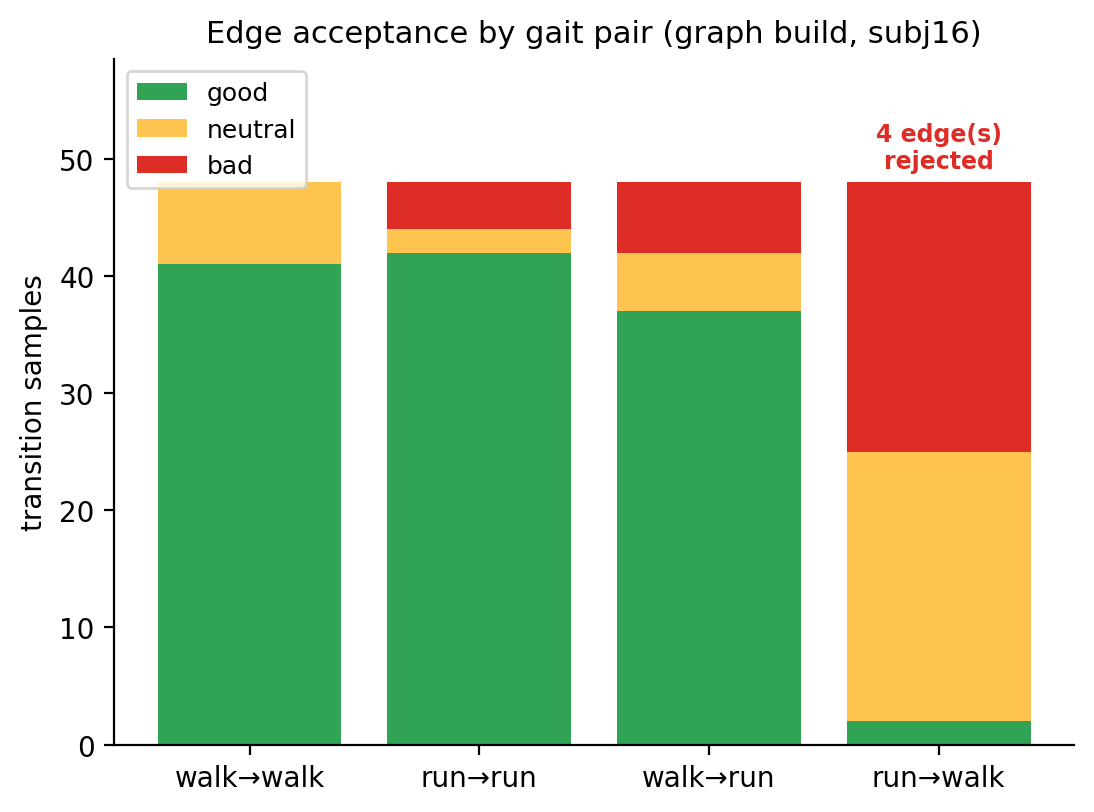
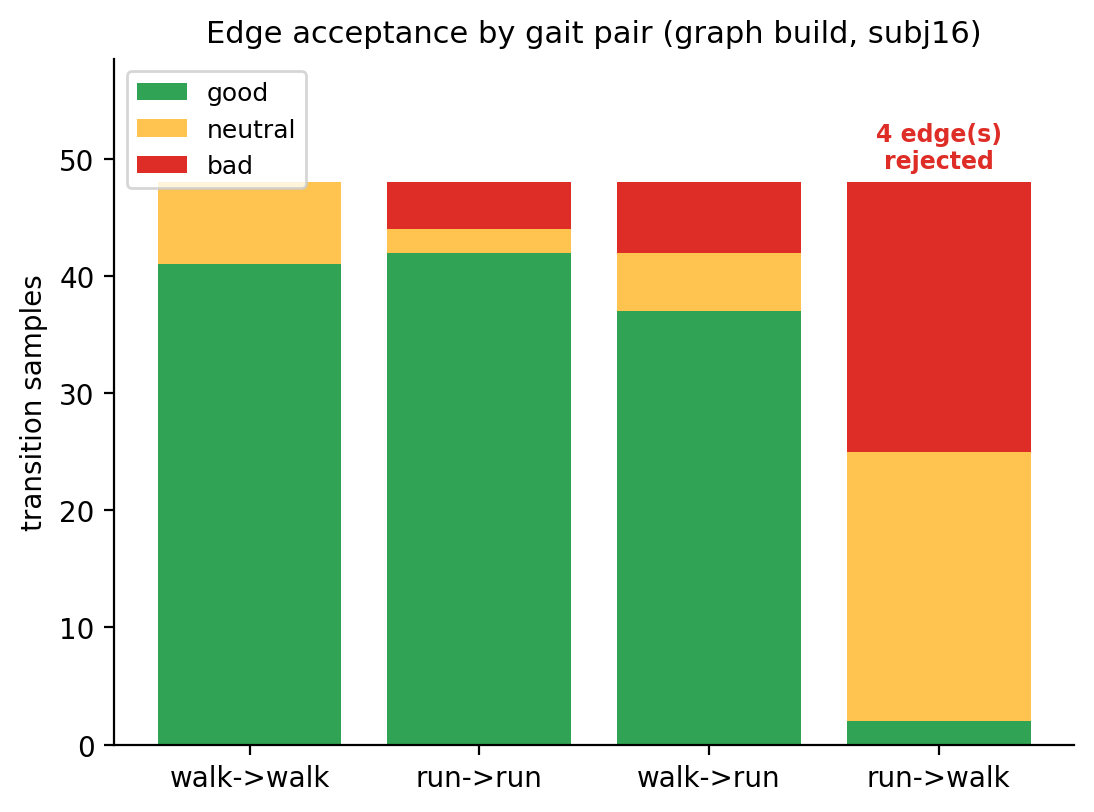
docs: make demo figures reproducible from tracked specs
The figure regen scripts read gitignored experiments/cmu CSV dumps that were
deleted with experiments/. Rewrite all three to regenerate their inputs by
running pmg_cli on the tracked specs/*.pmg_spec + BVH/*.bvh, into a tempdir:

- root_trajectory_subj78: --random-walk specs/cmu78_gait_graph.pmg_spec
- edge_acceptance_subj16: --build-graph specs/cmu_gait_graph.pmg_spec (tables/)
- transition_distance_within_vs_cross: --random-walk specs/cmu_gait_graph.pmg_spec,
  split by within-node vs cross-node distance

Drops the cmu127 dependency: the transition-cost figure is now single-subject
(subj16), giving a cleaner within-gait vs cross-gait separation (medians 378 vs
1935, no overlap). Scripts require pmg_cli built; no stale/local-data paths.

diff --git a/docs/figures/make_transition_distance_figure.py b/docs/figures/make_transition_distance_figure.py
@@ -1,13 +1,20 @@
 """Publication figure: within-gait vs cross-gait transition distance.
 
-Proves the honest submission claim: within-gait (walk<->walk) transitions are
-low-distance / safe, cross-gait transitions are high-distance / coverage-limited.
+Reproducible from tracked data: regenerates a random-walk transitions CSV by
+running pmg_cli on specs/cmu_gait_graph.pmg_spec (CMU subject 16, clips tracked
+in BVH/), then splits per-transition Kovar distance by within-node
+(walk<->walk, run<->run) vs cross-node (walk<->run). Honest evidence that
+cross-gait transitions are systematically costlier than within-gait ones, on a
+single subject.
 
-Data: existing CLI diagnostic CSV dumps (transition_distance = column index 19).
 Run: python docs/figures/make_transition_distance_figure.py
+Requires: pmg_cli built (cmake --build build --target pmg_cli).
 """
 import csv
+import random
+import subprocess
 import sys
+import tempfile
 from pathlib import Path
 
 import matplotlib
@@ -15,35 +22,50 @@ matplotlib.use("Agg")
 import matplotlib.pyplot as plt
 
 ROOT = Path(__file__).resolve().parents[2]
-DIST_COL = 19  # transition_distance, verified from CSV header
-
-# (label, csv path, color) -- within-gait = subj16 walk, cross-gait = cmu127 graph
-SERIES = [
-    ("Within-gait\n(walk↔walk, subj16)", "experiments/cmu/out/walk_transitions.csv", "#2b8cbe"),
-    ("Cross-gait\n(walk↔run, cmu127)", "outputs/cmu127_gait_graph/rw_trans.csv", "#e34a33"),
-]
+SPEC = "specs/cmu_gait_graph.pmg_spec"
 
 
-def load_distances(rel_path):
-    path = ROOT / rel_path
-    vals = []
-    with open(path, newline="") as fh:
-        reader = csv.reader(fh)
-        next(reader)  # header
-        for row in reader:
-            if len(row) > DIST_COL and row[DIST_COL]:
-                vals.append(float(row[DIST_COL]))
-    if not vals:
-        sys.exit(f"no distances in {rel_path}")
-    return vals
+def find_cli():
+    for p in ("build/Release/pmg_cli.exe", "build/Debug/pmg_cli.exe",
+              "build/pmg_cli", "build/Release/pmg_cli", "build/Debug/pmg_cli"):
+        if (ROOT / p).exists():
+            return str(ROOT / p)
+    sys.exit("pmg_cli not found - build it: cmake --build build --target pmg_cli")
+
+
+def regenerate_transitions_csv(out_csv):
+    subprocess.run([find_cli(), "--random-walk", str(ROOT / SPEC),
+                    "--seconds", "60", "--walk-seed", "1",
+                    "--dump-transitions-csv", out_csv],
+                   cwd=ROOT, check=True, stdout=subprocess.DEVNULL)
+
+
+def load_split():
+    """Return (within_node_distances, cross_node_distances)."""
+    within, cross = [], []
+    with tempfile.TemporaryDirectory() as tmp:
+        trans_csv = str(Path(tmp) / "trans.csv")
+        regenerate_transitions_csv(trans_csv)
+        with open(trans_csv, newline="") as fh:
+            for row in csv.DictReader(fh):
+                d = row.get("transition_distance", "")
+                if not d:
+                    continue
+                bucket = within if row["source_node"] == row["target_node"] else cross
+                bucket.append(float(d))
+    return within, cross
 
 
 def main():
-    data = [(lbl, load_distances(p), c) for lbl, p, c in SERIES]
+    within, cross = load_split()
+    if not within or not cross:
+        sys.exit(f"need both buckets; within={len(within)} cross={len(cross)} "
+                 "(increase --seconds)")
+    data = [("Within-gait\n(walk↔walk, run↔run)", within, "#2b8cbe"),
+            ("Cross-gait\n(walk↔run)", cross, "#e34a33")]
 
     plt.rcParams.update({"font.size": 11})
     fig, ax = plt.subplots(figsize=(5.0, 4.2))
-
     positions = range(len(data))
     box = ax.boxplot([d for _, d, _ in data], positions=list(positions),
                      widths=0.5, showfliers=False, patch_artist=True,
@@ -52,7 +74,6 @@ def main():
         patch.set_facecolor(color)
         patch.set_alpha(0.35)
 
-    import random
     random.seed(0)
     for x, (_, vals, color) in zip(positions, data):
         jitter = [x + random.uniform(-0.12, 0.12) for _ in vals]
@@ -66,7 +87,7 @@ def main():
     ax.set_xticks(list(positions))
     ax.set_xticklabels([lbl for lbl, _, _ in data])
     ax.set_ylabel("Transition distance (Kovar metric, log scale)")
-    ax.set_title("Transition cost: within-gait vs cross-gait", fontsize=12)
+    ax.set_title("Transition cost: within-gait vs cross-gait (subj16)", fontsize=12)
     ax.grid(axis="y", alpha=0.3, which="both")
     for spine in ("top", "right"):
         ax.spines[spine].set_visible(False)

diff --git a/docs/figures/make_root_trajectory_figure.py b/docs/figures/make_root_trajectory_figure.py
@@ -1,12 +1,17 @@
-"""Publication figure #2: top-down root trajectory of a graph random-walk.
+"""Publication figure: top-down root trajectory of a graph random-walk.
 
-Clean matplotlib version of the viewer's T2 trajectory fan. Shows the
-synthesized root path (x,z) colored by active graph node, with transition
-points marked. Data = CMU subject 78 (promoted PASS).
+Reproducible from tracked data: regenerates the motion CSV by running pmg_cli
+on specs/cmu78_gait_graph.pmg_spec (CMU subject 78, clips tracked in BVH/),
+then plots the synthesized root path (x,z) colored by active graph node with
+transition points marked. Clean version of the viewer's T2 trajectory fan.
 
 Run: python docs/figures/make_root_trajectory_figure.py
+Requires: pmg_cli built (cmake --build build --target pmg_cli).
 """
 import csv
+import subprocess
+import sys
+import tempfile
 from pathlib import Path
 
 import matplotlib
@@ -14,25 +19,41 @@ matplotlib.use("Agg")
 import matplotlib.pyplot as plt
 
 ROOT = Path(__file__).resolve().parents[2]
-SRC = "experiments/cmu/outputs/cmu78_gait_graph/random_walk_motion.csv"
-NODE_COLORS = {0: "#2b8cbe", 1: "#e6550d"}  # node 0 / node 1
+SPEC = "specs/cmu78_gait_graph.pmg_spec"
+NODE_COLORS = {0: "#2b8cbe", 1: "#e6550d"}
 NODE_LABELS = {0: "node 0 (walk)", 1: "node 1 (run)"}
 
 
+def find_cli():
+    for p in ("build/Release/pmg_cli.exe", "build/Debug/pmg_cli.exe",
+              "build/pmg_cli", "build/Release/pmg_cli", "build/Debug/pmg_cli"):
+        if (ROOT / p).exists():
+            return str(ROOT / p)
+    sys.exit("pmg_cli not found - build it: cmake --build build --target pmg_cli")
+
+
+def regenerate_motion_csv(out_csv):
+    subprocess.run([find_cli(), "--random-walk", str(ROOT / SPEC),
+                    "--seconds", "20", "--walk-seed", "1",
+                    "--dump-motion-csv", out_csv],
+                   cwd=ROOT, check=True, stdout=subprocess.DEVNULL)
+
+
 def main():
-    xs, zs, nodes, trans = [], [], [], []
-    with open(ROOT / SRC, newline="") as fh:
-        reader = csv.DictReader(fh)
-        for row in reader:
-            xs.append(float(row["root_x"]))
-            zs.append(float(row["root_z"]))
-            nodes.append(int(row["node"]))
-            trans.append(int(row["transitioning"]))
+    with tempfile.TemporaryDirectory() as tmp:
+        motion_csv = str(Path(tmp) / "motion.csv")
+        regenerate_motion_csv(motion_csv)
+        xs, zs, nodes, trans = [], [], [], []
+        with open(motion_csv, newline="") as fh:
+            for row in csv.DictReader(fh):
+                xs.append(float(row["root_x"]))
+                zs.append(float(row["root_z"]))
+                nodes.append(int(row["node"]))
+                trans.append(int(row["transitioning"]))
 
     fig, ax = plt.subplots(figsize=(5.2, 5.0))
     plt.rcParams.update({"font.size": 11})
 
-    # path segments colored by node
     seen = set()
     for i in range(1, len(xs)):
         n = nodes[i]
@@ -41,13 +62,12 @@ def main():
         ax.plot(xs[i - 1:i + 1], zs[i - 1:i + 1], color=NODE_COLORS.get(n, "gray"),
                 linewidth=2.0, solid_capstyle="round", label=lbl)
 
-    # transition markers
     tx = [xs[i] for i in range(len(xs)) if trans[i]]
     tz = [zs[i] for i in range(len(zs)) if trans[i]]
     ax.scatter(tx, tz, s=40, facecolor="none", edgecolor="black",
                linewidth=1.0, zorder=5, label=f"transition ({len(tx)} frames)")
-
     ax.scatter([xs[0]], [zs[0]], s=70, color="black", marker="o", zorder=6, label="start")
+
     ax.set_aspect("equal", adjustable="datalim")
     ax.set_xlabel("root x (cm)")
     ax.set_ylabel("root z (cm)")

diff --git a/docs/figures/make_edge_acceptance_figure.py b/docs/figures/make_edge_acceptance_figure.py
@@ -1,13 +1,19 @@
-"""Publication figure #4: graph-build edge acceptance by edge type.
+"""Publication figure: graph-build edge acceptance by gait pair.
 
-Stacked good/neutral/bad transition-sample counts per edge category, with
-rejected edges annotated. Honest evidence: within-gait (walk->walk, run->run)
-is clean; cross-gait (esp. run->walk) degrades and some edges are rejected.
-Data = CMU subject 16 graph build.
+Reproducible from tracked data: regenerates tables/edge_samples.csv by running
+pmg_cli --build-graph on specs/cmu_gait_graph.pmg_spec (CMU subject 16, clips
+tracked in BVH/), then plots stacked good/neutral/bad transition-sample counts
+per edge category with rejected edges annotated. Honest evidence: within-gait
+(walk->walk, run->run) is clean; cross-gait (esp. run->walk) degrades and some
+edges are rejected ("no GOOD target samples").
 
 Run: python docs/figures/make_edge_acceptance_figure.py
+Requires: pmg_cli built (cmake --build build --target pmg_cli).
 """
 import csv
+import subprocess
+import sys
+import tempfile
 from collections import defaultdict
 from pathlib import Path
 
@@ -16,22 +22,39 @@ matplotlib.use("Agg")
 import matplotlib.pyplot as plt
 
 ROOT = Path(__file__).resolve().parents[2]
-SRC = "experiments/cmu/out/tables/edge_samples.csv"
+SPEC = "specs/cmu_gait_graph.pmg_spec"
 ORDER = ["walk_cmu->walk_cmu", "run_cmu->run_cmu", "walk_cmu->run_cmu", "run_cmu->walk_cmu"]
-PRETTY = {"walk_cmu->walk_cmu": "walk→walk", "run_cmu->run_cmu": "run→run",
-          "walk_cmu->run_cmu": "walk→run", "run_cmu->walk_cmu": "run→walk"}
+PRETTY = {"walk_cmu->walk_cmu": "walk->walk", "run_cmu->run_cmu": "run->run",
+          "walk_cmu->run_cmu": "walk->run", "run_cmu->walk_cmu": "run->walk"}
+
+
+def find_cli():
+    for p in ("build/Release/pmg_cli.exe", "build/Debug/pmg_cli.exe",
+              "build/pmg_cli", "build/Release/pmg_cli", "build/Debug/pmg_cli"):
+        if (ROOT / p).exists():
+            return str(ROOT / p)
+    sys.exit("pmg_cli not found - build it: cmake --build build --target pmg_cli")
+
+
+def regenerate_edge_samples(out_dir):
+    subprocess.run([find_cli(), "--build-graph", str(ROOT / SPEC),
+                    str(Path(out_dir) / "graph.pmg")],
+                   cwd=ROOT, check=True, stdout=subprocess.DEVNULL)
+    return Path(out_dir) / "tables" / "edge_samples.csv"
 
 
 def main():
     agg = defaultdict(lambda: {"good": 0, "neutral": 0, "bad": 0, "rejected": 0})
-    with open(ROOT / SRC, newline="") as fh:
-        for row in csv.DictReader(fh):
-            e = agg[row["edge"]]
-            e["good"] += int(row["good"])
-            e["neutral"] += int(row["neutral"])
-            e["bad"] += int(row["bad"])
-            if row["accepted"] == "0":
-                e["rejected"] += 1
+    with tempfile.TemporaryDirectory() as tmp:
+        edge_csv = regenerate_edge_samples(tmp)
+        with open(edge_csv, newline="") as fh:
+            for row in csv.DictReader(fh):
+                e = agg[row["edge"]]
+                e["good"] += int(row["good"])
+                e["neutral"] += int(row["neutral"])
+                e["bad"] += int(row["bad"])
+                if row["accepted"] == "0":
+                    e["rejected"] += 1
 
     edges = [e for e in ORDER if e in agg]
     good = [agg[e]["good"] for e in edges]
